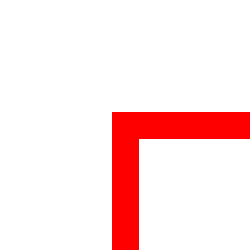
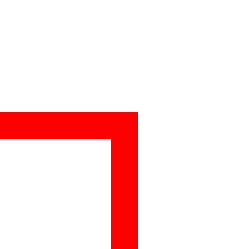
mappa

Changed region(s): [[0.4498, 0.4217, 1.0, 1.0], [0.0, 0.4498, 0.4498, 1.0]]

diff --git a/Basic2D/Model.cpp b/Basic2D/Model.cpp
@@ -162,14 +162,18 @@ bool MyModel::LoadGLTextures(void)
 	if (!this->Load_a_texture("../Data/solved.jpg", 29)) return false;
 
 	//linea verticale
-	if (!this->Load_a_texture("../Data/floor1linea.jpg", 30)) return false;
+	if (!this->Load_a_texture("../Data/line_vertical.png", 30)) return false;
 	//linea orizzontale
-	if (!this->Load_a_texture("../Data/floor1linea2.jpg", 31)) return false;
+	if (!this->Load_a_texture("../Data/line_horizontal.png", 31)) return false;
 	//incrocio muroE
-	//if (!this->Load_a_texture("../Data/floor1incrocioE.jpg", 32)) return false;
+	if (!this->Load_a_texture("../Data/T_est.png", 32)) return false;
 	//incrocio muro S
-	//if (!this->Load_a_texture("../Data/floor1incorcioS.jpg", 33)) return false;
-	
+	if (!this->Load_a_texture("../Data/T_sud.png", 33)) return false;
+	//angolo sud est
+	if (!this->Load_a_texture("../Data/cornerS_E.png", 34)) return false;
+	//angolo nord est
+	if (!this->Load_a_texture("../Data/cornerN_E.png", 35)) return false;
+
 	return true;										// Return Success
 }
 
@@ -242,6 +246,9 @@ void MyModel::DrawFloorText()
 void MyModel::DrawFloorFullview()
 {
 	glEnable(GL_TEXTURE_2D);
+	glEnable(GL_BLEND);
+	glBlendFunc(GL_SRC_ALPHA, GL_ONE_MINUS_SRC_ALPHA);
+
 	for (int i = 0; i < this->Maze->L.size(); i++) {
 		glLoadIdentity();
 		int ix, iy;
@@ -261,6 +268,7 @@ void MyModel::DrawFloorFullview()
 
 		glEnd();
 
+		
 		if (this->Maze->L[i].visitata) {
 			glLoadIdentity();
 			int ix, iy;
@@ -277,12 +285,12 @@ void MyModel::DrawFloorFullview()
 			//se ha solo un muro a est
 			else if (this->Maze->L[i].muroE && !this->Maze->L[i - 1].muroE
 				&& !this->Maze->L[i].muroS && !this->Maze->L[i - this->ldx].muroS) {
-				//it = 32;
+				it = 32;
 			}
 			//se ha solo il muro sud
 			else if (this->Maze->L[i].muroS && !this->Maze->L[i].muroE
 				&& !this->Maze->L[i-1].muroE && !this->Maze->L[i - this->ldx].muroS) {
-				//it = 33;
+				it = 33;
 			}
 			else {
 
@@ -297,7 +305,7 @@ void MyModel::DrawFloorFullview()
 					glTexCoord2f(floor[i].u, floor[i].v);
 					glNormal3f(floor[i].Nx, floor[i].Ny, floor[i].Nz);
 					glColor3f(floor[i].r, floor[i].g, floor[i].b);
-					glVertex3f(floor[i].x, floor[i].y, floor[i].z);
+					glVertex3f(floor[i].x, floor[i].y+0.00001f, floor[i].z);
 				}
 			
 			glEnd();
